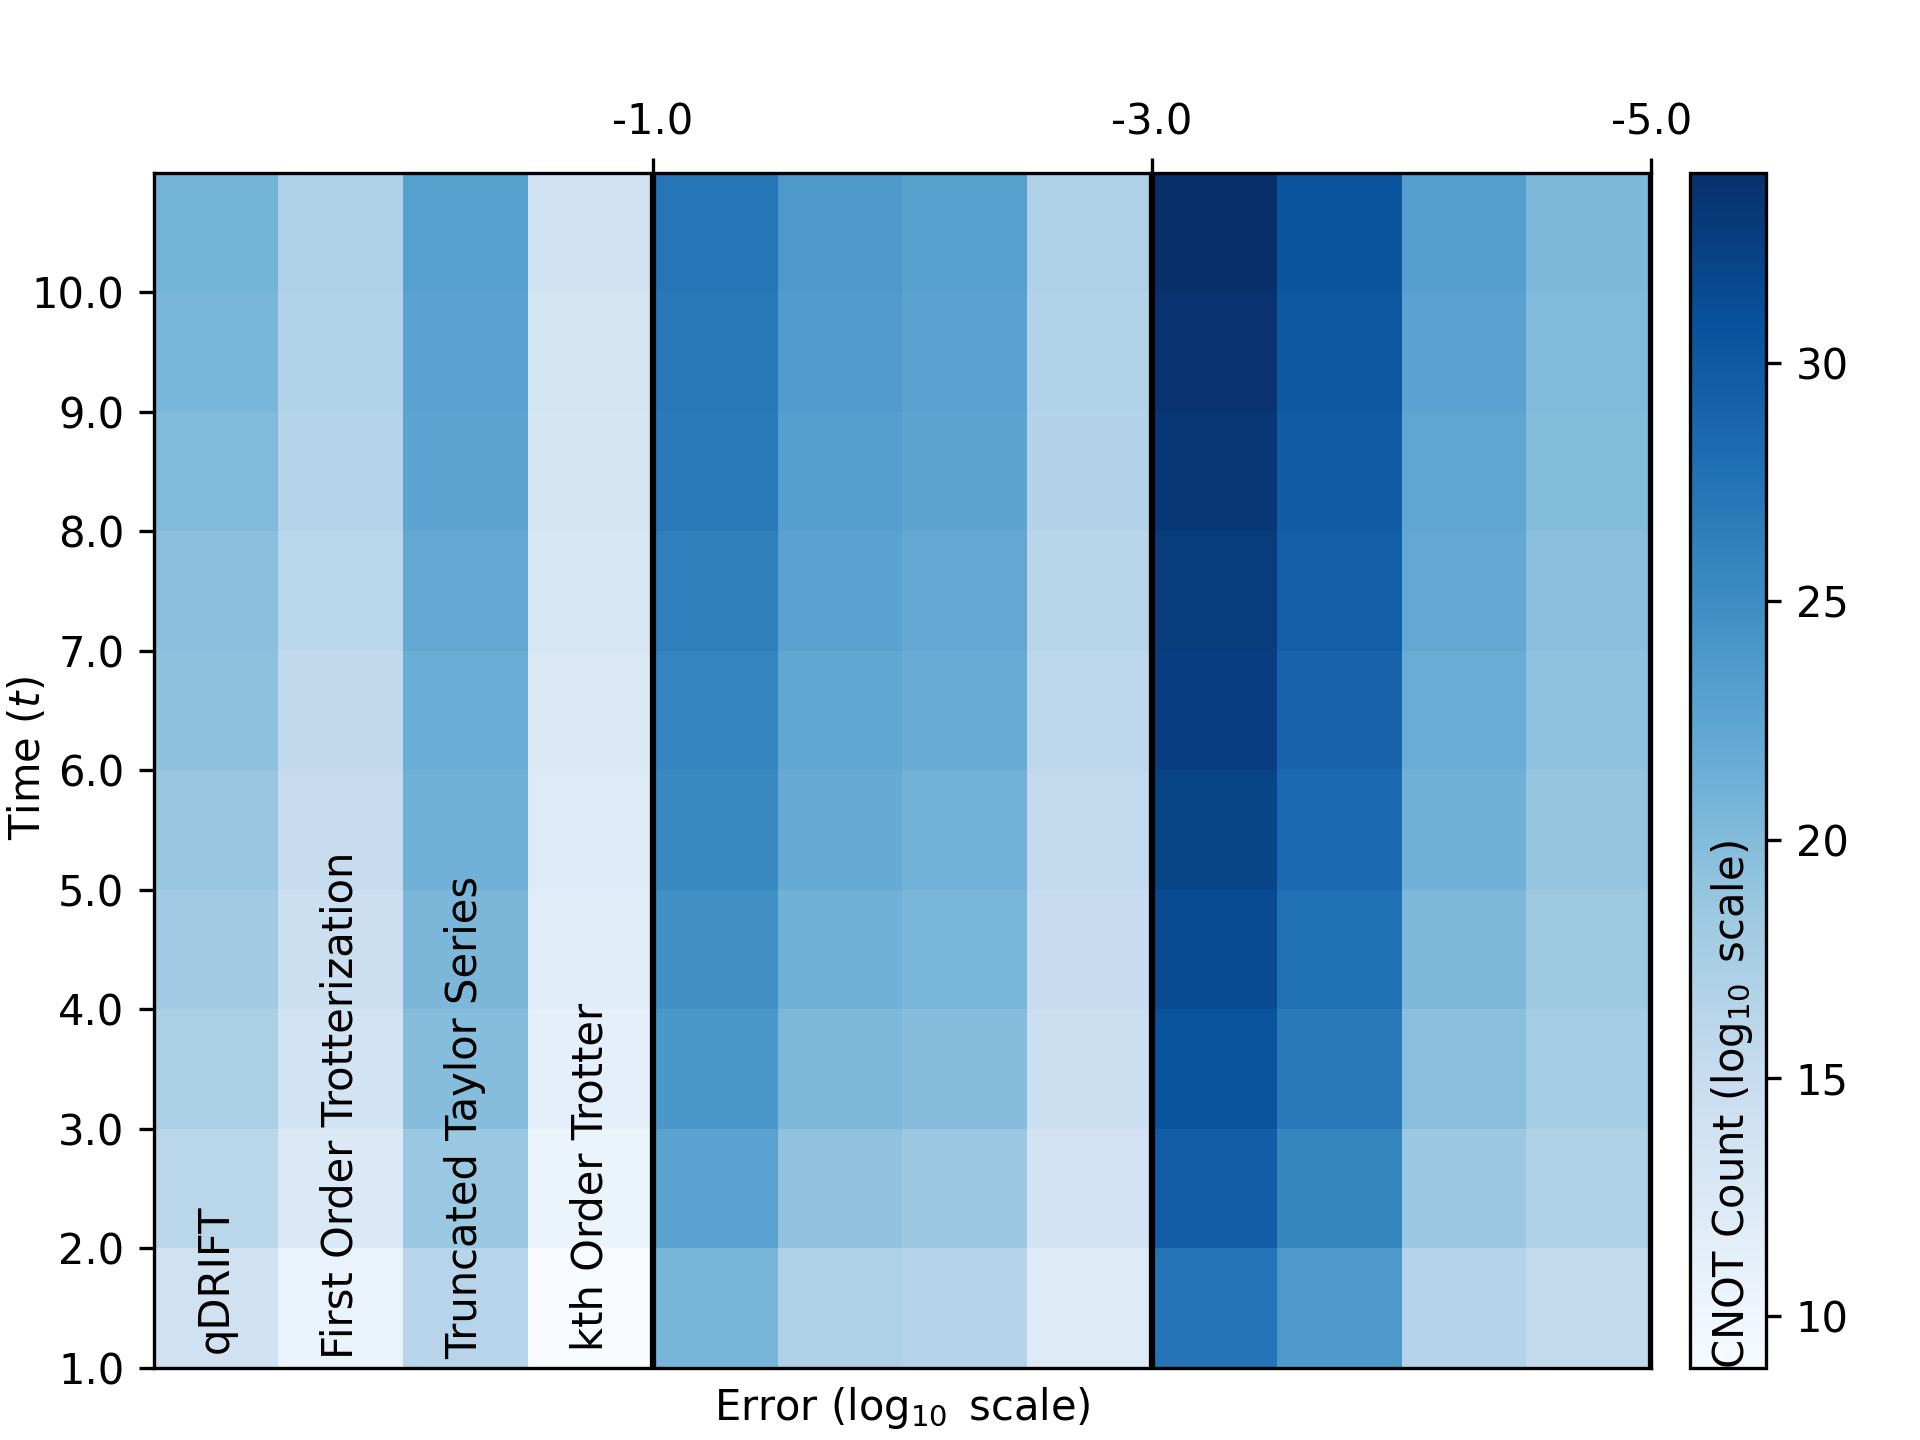
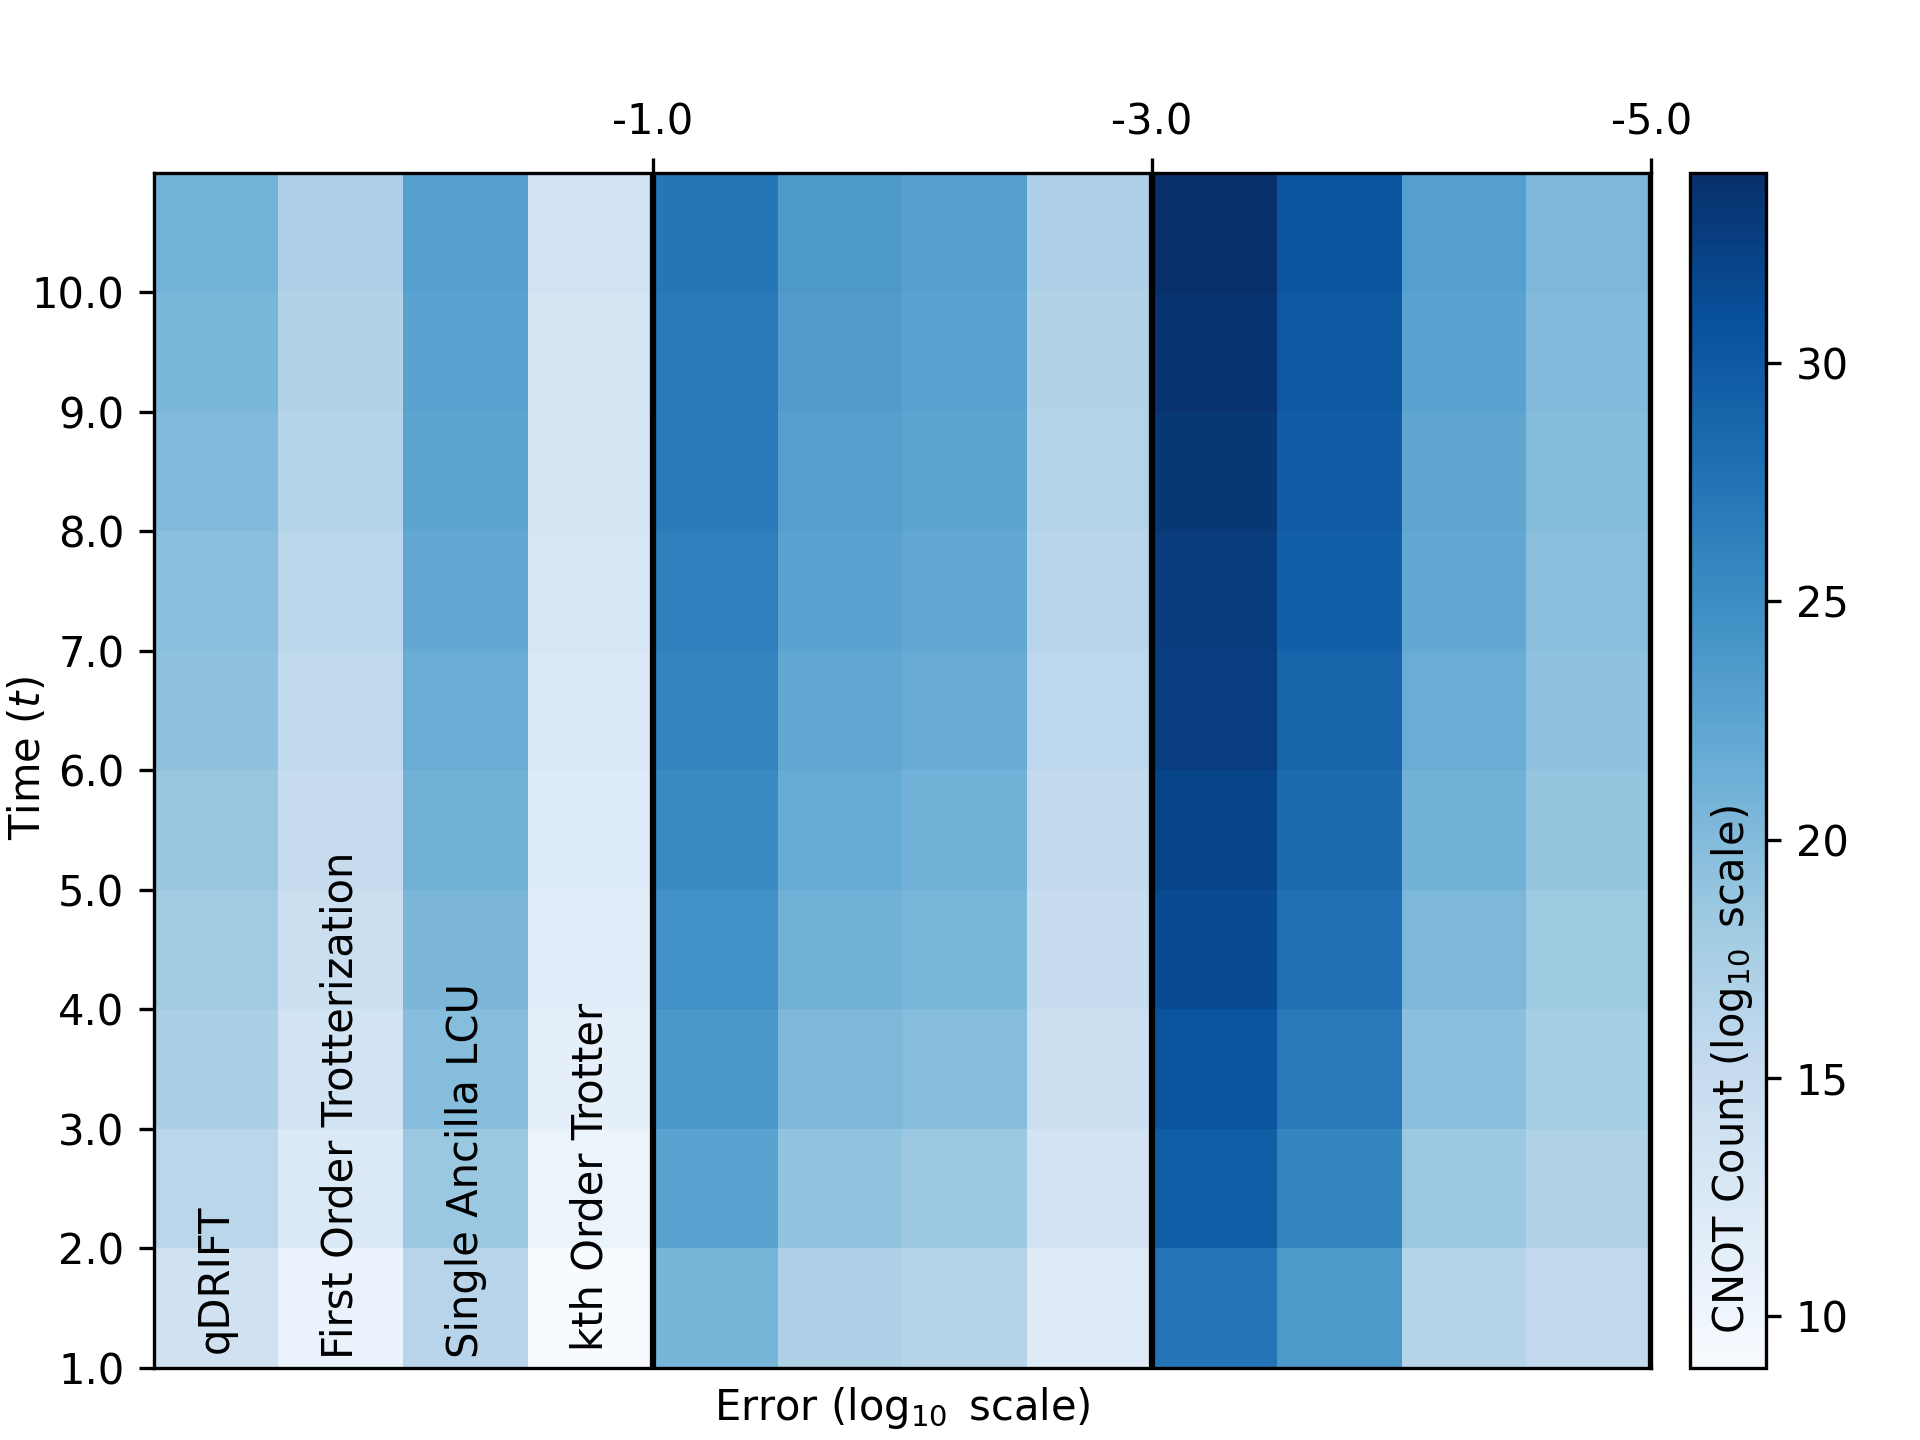
fixed plot

Changed region(s): [[0.875, 0.5625, 0.9375, 0.9375], [0.2188, 0.625, 0.25, 0.9375]]

diff --git a/ising/benchmark/heatplot/plot_gate_simulation.py b/ising/benchmark/heatplot/plot_gate_simulation.py
@@ -81,7 +81,7 @@ def plot_gate_error(
     # TEXT ON THE COLORBAR
     cbar.ax.text(
         0.55,
-        0.22,
+        0.25,
         r"CNOT Count ($\log_{10}$ scale)",
         rotation=90,
         ha="center",
@@ -120,8 +120,8 @@ def plot_gate_error(
     )
     ax.text(
         2.5,
-        2.10,
-        "Truncated Taylor Series",
+        1.65,
+        "Single Ancilla LCU",
         rotation=90,
         ha="center",
         va="center",
@@ -154,6 +154,6 @@ if __name__ == "__main__":
     point_count = (3, 10)
     obs_norm = 1
     time_pair = (1, 10)
-    file_name = f"methane"
+    file_name = f"ising_{qubit}"
 
     plot_gate_error(qubit, h_val, err_pair, point_count, obs_norm, time_pair, file_name)

diff --git a/ising/benchmark/heatplot/gate_simulation.py b/ising/benchmark/heatplot/gate_simulation.py
@@ -75,7 +75,7 @@ def plot_gate_error(
             sorted_pairs, min_error, delta=0, cutoff_count=ll**2
         )
         alpha_com_second = alpha_commutator_second_order(
-            sorted_pairs, min_error, delta=0, cutoff_count=ll**2
+            sorted_pairs, min_error, delta=0, cutoff_count=int(ll**2.2)
         )
         print(f"com1:{alpha_com_first} \ncom2:{alpha_com_second}")
 

diff --git a/ising/utils/commutator/commutator_hueristic.py b/ising/utils/commutator/commutator_hueristic.py
@@ -88,7 +88,7 @@ def alpha_commutator_second_order(
                 alpha_u -= hmax**3
                 alpha_l += update
                 alpha_u += update
-                pbar_alpha.update(alpha_l)
+                pbar_alpha.update(update)
 
                 if alpha_l > 0 and (alpha_u / alpha_l) - 1 < (delta / error):
                     return alpha_l
